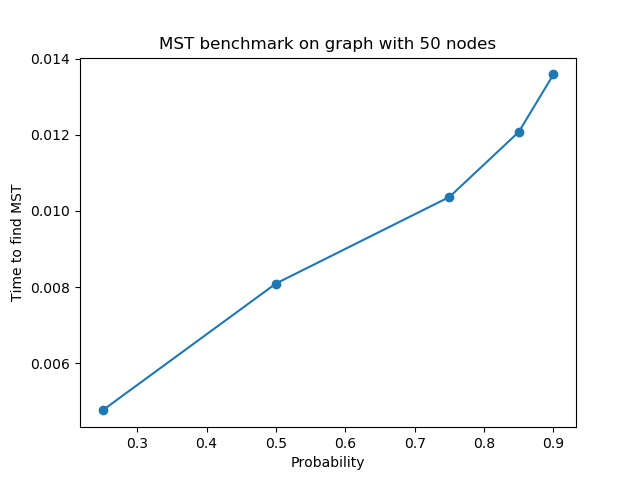
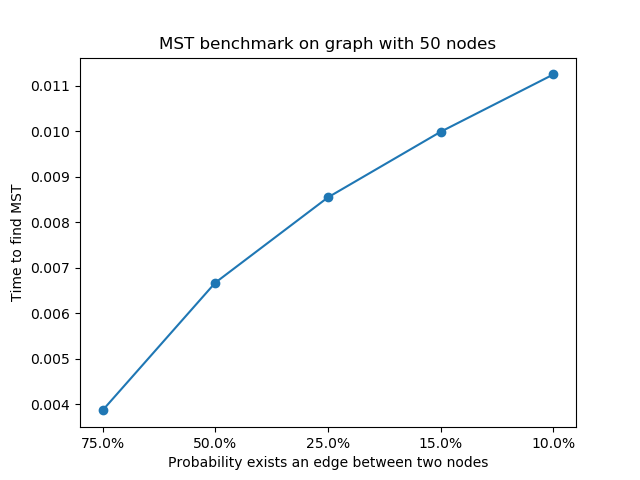
made some adjustment, add path cost

diff --git a/experiment.py b/experiment.py
@@ -8,9 +8,13 @@ import pandas as pd
 import matplotlib.pyplot as plt
 
 def evaluate_experiment(probabilities, dim):
-    df = pd.DataFrame(columns= ['Probabilities', 'MST_time'])
-    df['Probabilities'] = probabilities
+    df = pd.DataFrame(columns= ['Probabilities', 'MST_time', 'Path_cost'])
+    p = []
+    for prob in probabilities:
+        p.append(str(100 - prob*100) + "%")
+    df['Probabilities'] = p
     graph = Graph.Graph()
+    path_cost = []
     m_elapsed = []
     elapsed = []
     file_list = []
@@ -21,18 +25,19 @@ def evaluate_experiment(probabilities, dim):
     for files in file_list:
         for i in range(1, 11):
             name = 'db/' + files
-            print(name)
             file = open(name, 'rb')
             graph = pickle.load(file)  # load file and calculate MST
             file.close()
             start = time.perf_counter()
-            MST_Kruskal.MST_Kruskal(graph)
+            weight = MST_Kruskal.MST_Kruskal(graph)
             end = time.perf_counter()
             elapsed.append(end - start)
         m_elapsed.append(sum(elapsed)/10)
+        path_cost.append(weight) # don't calculate the average because is always the same
     df['MST_time'] = m_elapsed
+    df['Path_cost'] = path_cost
     print(df)
-    plt.xlabel("Probability")
+    plt.xlabel("Probability exists an edge between two nodes")
     plt.ylabel("Time to find MST")
     plt.plot(df['Probabilities'], df['MST_time'], marker="o")
     plt.title("MST benchmark on graph with " + str(dim) + " nodes")

diff --git a/MST_Kruskal.py b/MST_Kruskal.py
@@ -15,5 +15,6 @@ def MST_Kruskal(graph):
 			path_cost += edge[1]
 			path_step += 1
 			union_find.union(edge[0][0], edge[0][1])
+	return path_cost
 	# print("MST found in ", path_step, "step. Total weight: ", path_cost)
 	# return A
